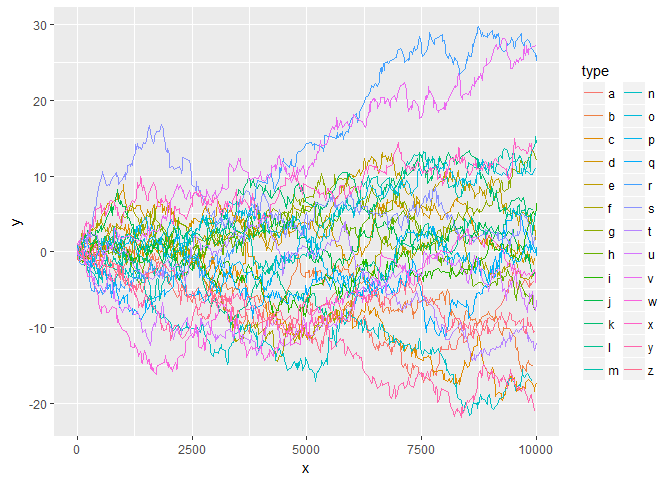
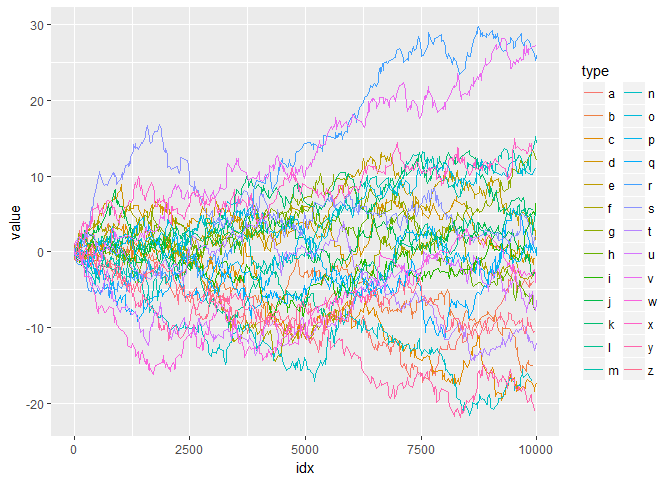
Creep up env chains to get raw data

diff --git a/README.md b/README.md
@@ -25,12 +25,12 @@ library(tidyverse)
 
 set.seed(1)
 d <- tibble(
-  x = 1:10000,
-  y = runif(x, -1, 1),
-  type = sample(letters, size = length(x), replace = TRUE)
+  idx = 1:10000,
+  value = runif(idx, -1, 1),
+  type = sample(letters, size = length(idx), replace = TRUE)
 ) %>%
   group_by(type) %>%
-  mutate(y = cumsum(y)) %>%
+  mutate(value = cumsum(value)) %>%
   ungroup()
 ```
 
@@ -38,7 +38,7 @@ It is difficult to distinguish them by colour.
 
 ``` r
 ggplot(d) +
-  geom_line(aes(x, y, group = type, colour = type))
+  geom_line(aes(idx, value, colour = type))
 ```
 
 ![](README-ggplot-too-many-1.png)
@@ -49,8 +49,8 @@ So we are motivated to highlight only important series, like this:
 library(gghighlight)
 
 ggplot(d) +
-  geom_line(aes(x, y, group = type, colour = type)) +
-  scale_highlight_colour(max(y) > 20)
+  geom_line(aes(idx, value, colour = type)) +
+  scale_highlight_colour(max(value) > 20)
 ```
 
 ![](README-gghighlight-1.png)
